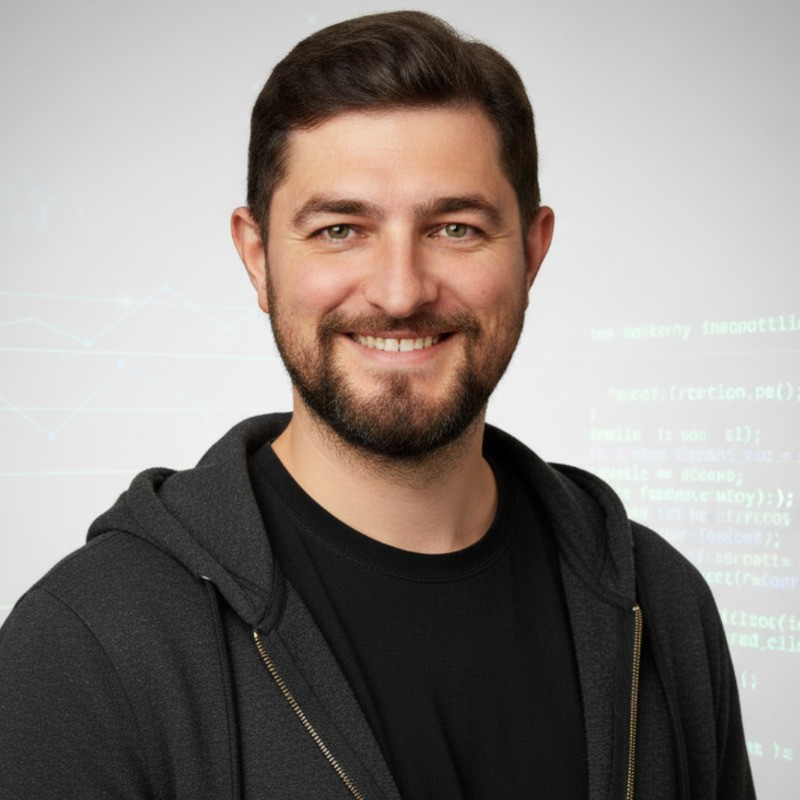
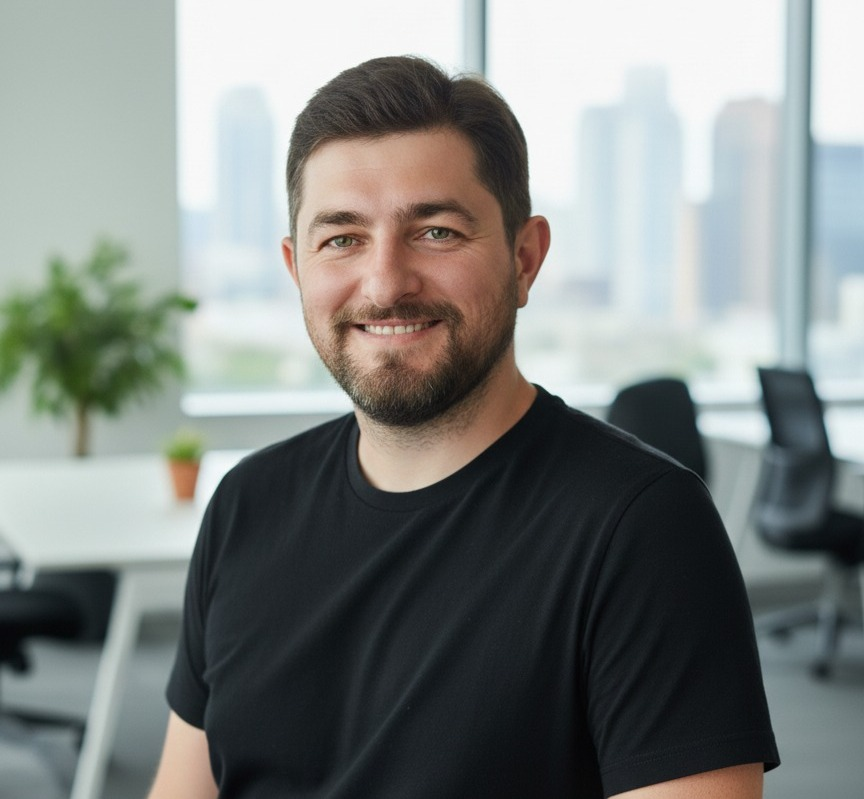
new profile picture

diff --git a/index.html b/index.html
@@ -22,7 +22,7 @@
     />
     <meta
       property="og:image"
-      content="https://mischkez.github.io/assets/img/mischkez.jpg"
+      content="https://mischkez.github.io/assets/img/milos-profile.jpg"
     />
     <meta property="og:url" content="https://mischkez.github.io" />
     <meta name="twitter:card" content="summary_large_image" />
@@ -72,7 +72,7 @@
         <span class="d-none d-lg-block"
           ><img
             class="img-fluid img-profile rounded-circle mx-auto mb-2"
-            src="assets/img/mischkez.jpeg"
+            src="assets/img/milos-profile.jpg"
             alt="Miloš Janković wearing a green shirt"
         /></span>
       </a>
